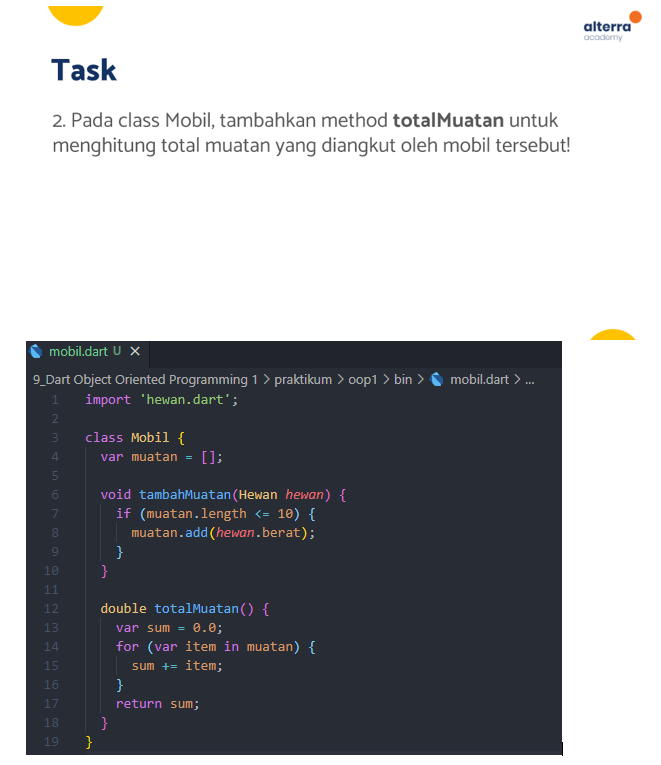
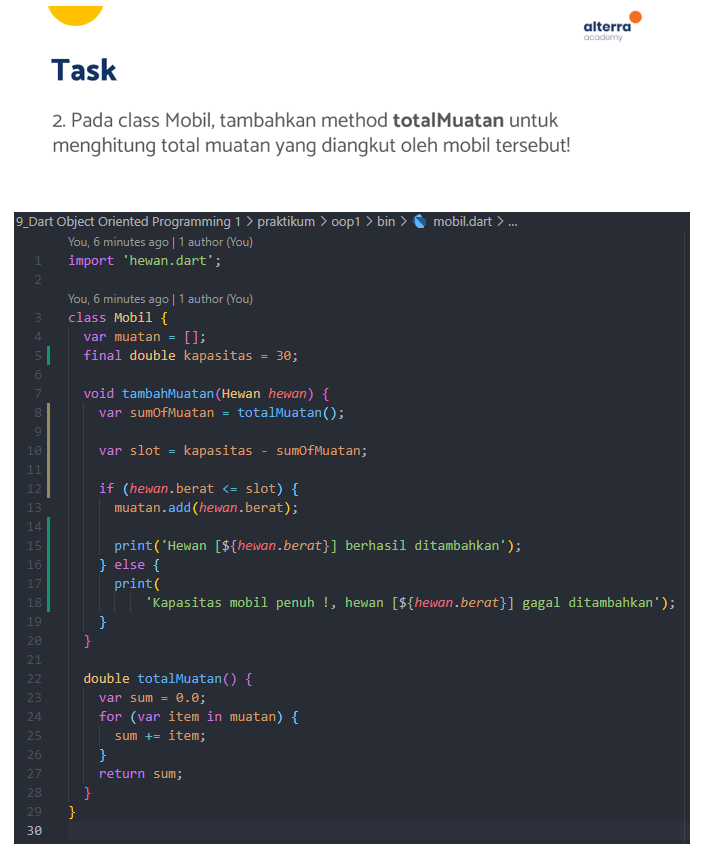
update section 9

diff --git a/9_Dart Object Oriented Programming 1/praktikum/oop1/bin/mobil.dart b/9_Dart Object Oriented Programming 1/praktikum/oop1/bin/mobil.dart
@@ -2,10 +2,20 @@ import 'hewan.dart';
 
 class Mobil {
   var muatan = [];
+  final double kapasitas = 30;
 
   void tambahMuatan(Hewan hewan) {
-    if (muatan.length <= 10) {
+    var sumOfMuatan = totalMuatan();
+
+    var slot = kapasitas - sumOfMuatan;
+
+    if (hewan.berat <= slot) {
       muatan.add(hewan.berat);
+
+      print('Hewan [${hewan.berat}] berhasil ditambahkan');
+    } else {
+      print(
+          'Kapasitas mobil penuh !, hewan [${hewan.berat}] gagal ditambahkan');
     }
   }
 

diff --git a/9_Dart Object Oriented Programming 1/praktikum/oop1/bin/oop1.dart b/9_Dart Object Oriented Programming 1/praktikum/oop1/bin/oop1.dart
@@ -4,14 +4,17 @@ import 'mobil.dart';
 void main(List<String> arguments) {
   var h1 = Hewan();
   var h2 = Hewan();
+  var h3 = Hewan();
 
   h1.berat = 9;
   h2.berat = 8;
+  h3.berat = 20;
 
   var mobil = Mobil();
 
   mobil.tambahMuatan(h1);
   mobil.tambahMuatan(h2);
+  mobil.tambahMuatan(h3);
 
   print(mobil.muatan);
   print(mobil.totalMuatan());
